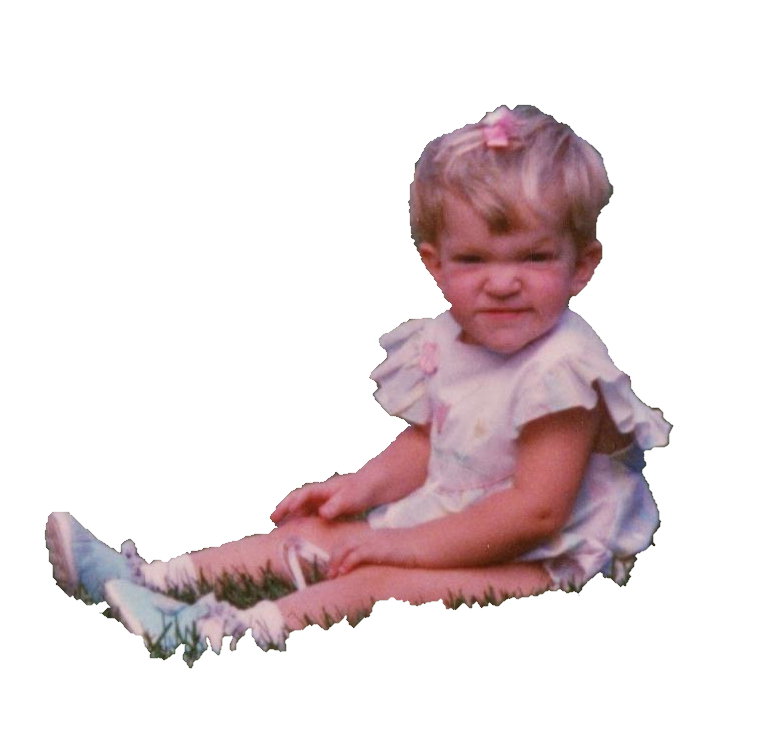
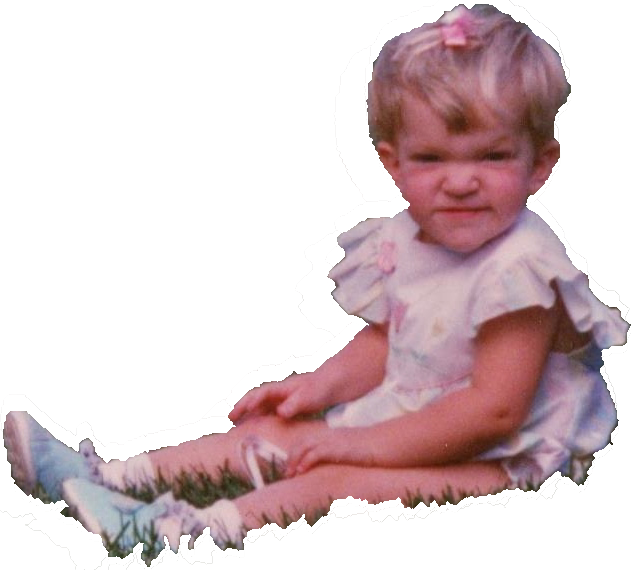
somewhat of an about going on mobile

diff --git a/css/style.css b/css/style.css
@@ -161,30 +161,27 @@ border-color: #32826B;
 }
 
 #about-container{
-  border: black solid 1px;
+  /* border: black solid 1px; */
   display: flex;
   flex-direction: row;
-  justify-content: space-around;
+  justify-content: space-evenly;
   height: 10em;
   align-items: center;
 }
 
 #about-text-container{
-  border: salmon solid 1px;
+  /* border: salmon solid 1px; */
   height: 75%;
-  width: 30%;
+  width: 40%;
   display: flex;
   flex-direction: column;
-  justify-content: space-around;
-  align-items: center;
+  justify-content: center;
 }
 
-#about-title{
-  border: blueviolet solid 1px;
-  height: 30%;
-  width: 75%;
+#about-title{  
   font-family: 'Cutive Mono', monospace;
-  font-size: 1em;
+  font-size: 1.65em;
+
 }
 
 #about-content{
@@ -196,9 +193,18 @@ border-color: #32826B;
 }
 
 #photo-container{
-  border: fuchsia solid 1px;
+  /* border: fuchsia solid 1px; */
   height: 75%;
-  width: 30%;
+  width: 40%;
+  display: flex;
+  flex-direction: column;
+  justify-content: flex-start;
+  align-items: flex-start;
+}
+
+#it-me{
+  max-width: 100%;
+  max-height: 100%;
 }
 
 

diff --git a/index.html b/index.html
@@ -53,11 +53,11 @@
       </section>
       <section id="about-container">
         <div id="about-text-container">
-          <div id="about-title">hi, i'm michelle</div>
+          <div id="about-title">hi, i'm &#10; michelle</div>
           <div id="about-content">Lorem ipsum dolor sit amet, quod everti inciderint id his, has et harum tempor. Vidit soleat nostro ut est, cu sea vidit maiorum. His at rebum nobis partem, sit mutat minim forensibus in, eum ex dolorem consulatu voluptaria. Case aperiam explicari nec cu, meis assentior definiebas ea mea. Modo eligendi no vel.</div>
         </div>
         <div id="photo-container">
-          <!-- <img id="it-me" src="/assets/me.png"> -->
+          <img id="it-me" src="/assets/me.png">
         </div>
       </section>
       <section id="portfolio-container"></section>
